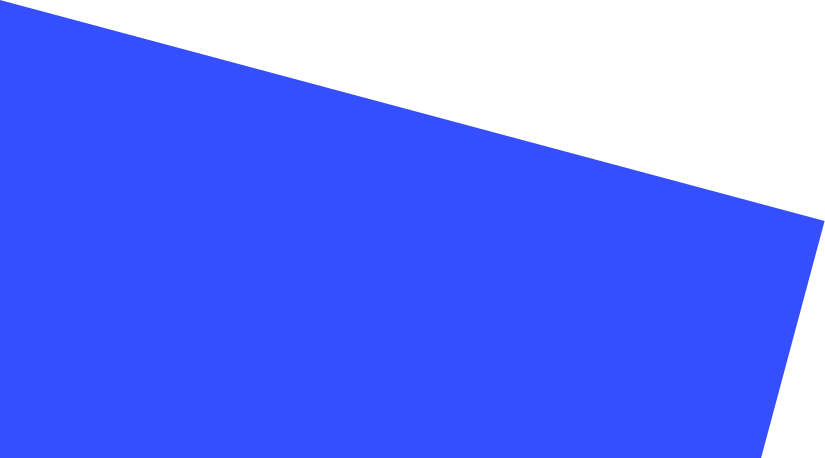
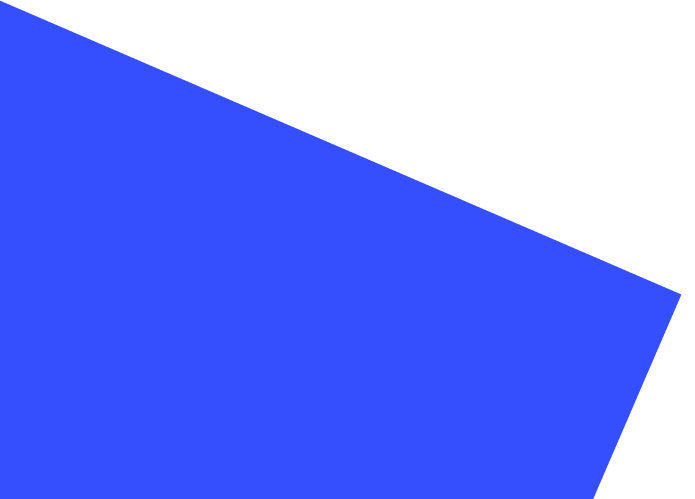
up

Changed region(s): [[0.0604, 0.0306, 1.0, 1.0], [0.0, 0.0, 0.0604, 0.0306]]

diff --git a/publics/css/style.css b/publics/css/style.css
@@ -432,23 +432,28 @@ body.active {
 .main .tab.tab-firt {
     display: block;
     position: relative;
+    overflow: hidden;
 }
 
 .main .tab.tab-firt .draw-tab1{
     position: absolute;
-    width: 45%;
+    width: 68%;
     left: 0;
     bottom: 0;
     z-index: 1;
+    height: 85%;
+    background-color: #0008C8;
+    transform: rotate(29deg) translateX(-20%) translateY(53%);
 }
 
-@media (max-width: 769px) {
+@media (max-width: 767px) {
     .main .tab.tab-firt .draw-tab1{
         position: absolute;
-        width: 150%;
+        width: 190%;
         left: 0;
         bottom: 0;
         z-index: 1;
+        transform: rotate(-20deg) translateX(-20%) translateY(46%);
     }
 }
 
@@ -479,7 +484,6 @@ body.active {
 .header{
     position: relative;
     z-index: 9;
-    background-color: white;
 }
 
 .login-form{
@@ -597,18 +601,32 @@ body.active {
 
 .main .tab1 {
     display: flex;
-    align-items: center;
+    align-items: stretch;
     justify-content: space-between;
     flex-wrap: wrap;
-    margin: 10vw auto;
+    min-height: 85vh;
+    margin: 0 auto;
+    padding-top: 5vw !important;
     position: relative;
-    z-index: 2;
+    z-index: 3;
+}
+
+.main .content-left {
+    margin-top: 60px;
+}
+
+.main .content-left .content-bottom {
+    padding-top: 13vw;
+    position: absolute;
+    bottom: 0;
+    left: -3%;
 }
 
 .main .content-right .slogand b {
     background-color: #EDF0FF;
     padding: 3px 10px;
     border-radius: 5px;
+    font-size: 20px;
     color: #0008C8;
     font-family: 'Open-san-bold';
 }
@@ -617,22 +635,23 @@ body.active {
     margin: 1.5vw 0;
 }
 
-.main .content-right .title-content h3 {
+.main .content-right .title-content h1 {
     font-family: 'Noto-san-bold';
     color: #1D1960;
     display: inline;
 }
 
-.main .content-right .title-content h3:nth-child(2) {
+.main .content-right .title-content h1:nth-child(2) {
     color: #CC9D00;
 }
 
-.main .content-right .title-content h3:nth-child(3) {
+.main .content-right .title-content h1:nth-child(3) {
     color: #334DFF;
 }
 
 .main .content-right .title-content h5 {
     color: #0E0990;
+    font-size: 20px;
     margin: 2vw 0;
 }
 
@@ -650,6 +669,7 @@ body.active {
 
 .main .form-start .item-form {
     display: flex;
+    background-color: white;
     align-items: center;
     border-radius: 10px;
     justify-content: space-between;
@@ -731,17 +751,13 @@ body.active {
     transition: 0.5s ease-in-out;
 }
 
-.main .content-left {
-    margin-top: 60px;
-}
-
-.main .news .title-news h4 {
+.main .news .title-news h2 {
     display: inline;
     font-family: 'Noto-san-bold';
-    color: #0008C8;
+    color: white;
 }
 
-.main .news .title-news h4.news-color {
+.main .news .title-news h2.news-color {
     color: #00BF63;
 }
 
@@ -759,13 +775,13 @@ body.active {
 .main .news .list-news .item-news p {
     font-family: "Noto-san-bold";
     margin: 0;
-    color: #0008C8;
+    color: white;
     text-decoration: none;
 }
 
 .main .news .list-news .item-news a {
     width: 70%;
-    color: #0E0990;
+    color: white;
     display: -webkit-box;
     -webkit-line-clamp: 2;
     -webkit-box-orient: vertical;
@@ -785,10 +801,21 @@ body.active {
     font-family: 'Open-san-bold';
 }
 
-@media (max-width: 768px) {
+@media (max-width: 767px) {
     .main .content-left {
         order: 2;
         margin-top: 0;
+    }
+
+    .main .content-left .content-bottom {
+        padding-top: 13vw;
+        position: absolute;
+        bottom: 0;
+        left: 6.5%;
+    }
+
+    .main .tab1 {
+        min-height: 90vh;
     }
 
     .main .form-start form{
@@ -797,7 +824,6 @@ body.active {
 
     .main .form-start .item-form{
         width: 100%;
-        padding: 0px 10px !important;
     }
 
     .main .content-left .form-start {

diff --git a/index.html b/index.html
@@ -235,9 +235,9 @@
                                 <div class="news">
                                     <div class="content-news">
                                         <div class="title-news">
-                                            <h4>Một trong những cập <br> nhật </h4>
-                                            <h4 class="news-color">mới</h4>
-                                            <h4>gần đây</h4>
+                                            <h2>Một trong những cập <br> nhật </h2>
+                                            <h2 class="news-color">mới</h2>
+                                            <h2>gần đây</h2>
                                         </div>
 
                                         <div class="list-news">
@@ -271,11 +271,11 @@
                                 <b>Thực tế - Nghiêm túc - Bền vững</b>
                             </div>
                             <div class="title-content">
-                                <h3>Mở khóa các cách kiếm tiền, mô hình khởi
-                                    nghiệp kinh doanh</h3>
-                                <h3> thực tế,</h3>
-                                <h3> và đã thành công thu từ 30 triệu/tháng đến
-                                    X... tỉ</h3>
+                                <h1>Mở khóa các cách kiếm tiền, mô hình khởi
+                                    nghiệp kinh doanh</h1>
+                                <h1> thực tế,</h1>
+                                <h1> và đã thành công thu từ 30 triệu/tháng đến
+                                    X... tỉ</h1>
 
                                 <h5>Truy cập vào Kho dữ liệu <b>đa dạng cách
                                         kiếm tiền, khởi nghiệp kinh doanh, làm
@@ -297,9 +297,9 @@
 
                     </div>
 
-                    <!-- <div class="draw-tab1">
-                        <img src="./publics/images/draw-tab1.png" width="100%" alt="">
-                    </div> -->
+                    <div class="draw-tab1">
+                        <!-- <img src="./publics/images/draw-tab1.png" width="100%" alt=""> -->
+                    </div>
                 </div>
 
                 <!-- TAB 01 + HEADER END -->
